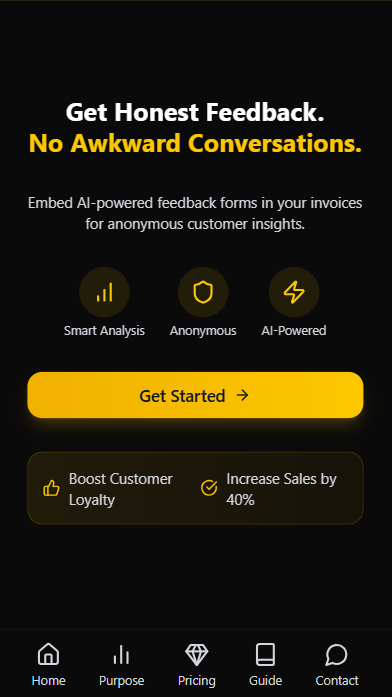
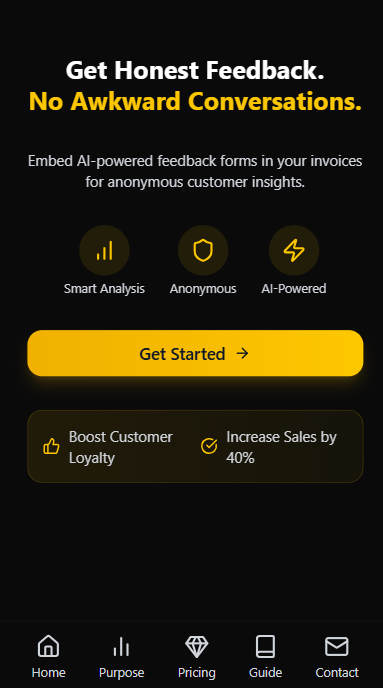
update image in readme

diff --git a/README.md b/README.md
@@ -1,6 +1,7 @@
 # InvisiFeed: The SaaS That Turns Invoices Into Growth Machines!
 
 **Live App:** [invisifeed.vercel.app](https://invisifeed.vercel.app)
+
 **Status:** ✅ Fully Functional | 🔐 Main Codebase is Private | 📄 This Repo is for Documentation Only
 
 ---
@@ -9,14 +10,13 @@
 
 **InvisiFeed** is a modern, full-stack SaaS platform built specifically for **freelancers, agencies, consultants, contractors, and service-based businesses** who want to:
 
-* Generate and send professional invoices
-* Collect honest, **anonymous** feedback from their clients
-* Analyze performance and improve service quality with the help of AI
-* Automate and simplify the invoice-to-feedback lifecycle
+- Generate and send professional invoices
+- Collect honest, **anonymous** feedback from their clients
+- Analyze performance and improve service quality with the help of AI
+- Automate and simplify the invoice-to-feedback lifecycle
 
 ![InvisiFeed](assets/landing-page.png)
 ![How-it-Works](assets/how-invisifeed-works.png)
-
 
 It transforms traditional invoices into **Smart Invoices** by embedding feedback forms and reward coupons directly inside downloadable PDF invoices.
 
@@ -26,8 +26,8 @@ It transforms traditional invoices into **Smart Invoices** by embedding feedback
 
 > ⚠ This repository is strictly for **documentation purposes only**.
 
-* The **actual project source code is hosted in a private repository** to protect the intellectual property and prevent unauthorized replication.
-* If you are an interested recruiter, potential collaborator, or reviewer, please contact the maintainer for access or demo requests.
+- The **actual project source code is hosted in a private repository** to protect the intellectual property and prevent unauthorized replication.
+- If you are an interested recruiter, potential collaborator, or reviewer, please contact the maintainer for access or demo requests.
 
 ![Codebase Preview](assets/repo-insights.png)
 
@@ -37,115 +37,123 @@ It transforms traditional invoices into **Smart Invoices** by embedding feedback
 
 ### 🔄 Smart Invoice System
 
-* Upload your own invoice PDF, or use the built-in invoice creator.
-* Optionally add a **discount coupon** to reward customers who provide feedback.
-* System generates a combined "Smart Invoice" PDF:
+- Upload your own invoice PDF, or use the built-in invoice creator.
+- Optionally add a **discount coupon** to reward customers who provide feedback.
+- System generates a combined "Smart Invoice" PDF:
 
-  * Original Invoice Page
-  * Feedback Page with:
+  - Original Invoice Page
+  - Feedback Page with:
 
-    * Link to feedback form
-    * QR Code for mobile access
-* Share directly with your client via the app.
+    - Link to feedback form
+    - QR Code for mobile access
+
+- Share directly with your client via the app.
 
 ### 🖋 Feedback Form
 
-* Includes:
+- Includes:
 
-  * Customer Satisfaction Rating
-  * Communication Rating
-  * Quality of Service Rating
-  * Value for Money Rating
-  * Recommendation Rating
-  * Overall Rating
-  * Feedback content (manual or AI-generated)
-  * Suggestions (manual or AI-generated)
-* Clients can:
+  - Customer Satisfaction Rating
+  - Communication Rating
+  - Quality of Service Rating
+  - Value for Money Rating
+  - Recommendation Rating
+  - Overall Rating
+  - Feedback content (manual or AI-generated)
+  - Suggestions (manual or AI-generated)
 
-  * Submit **anonymously** (no trace, no data saved)
-  * Submit **non-anonymously** without extra fields (auto-filled securely)
+- Clients can:
+
+  - Submit **anonymously** (no trace, no data saved)
+  - Submit **non-anonymously** without extra fields (auto-filled securely)
 
 ### 🧐 AI-Enhanced Feedback Insights
 
-* After submission, coupons are revealed.
-* AI engine (Gemini 2.0 Flash API) analyzes feedback and:
+- After submission, coupons are revealed.
+- AI engine (Gemini 2.0 Flash API) analyzes feedback and:
 
-  * Identifies Top 3 Areas of Improvement
-  * Identifies Top 3 Areas of Strength
+  - Identifies Top 3 Areas of Improvement
+  - Identifies Top 3 Areas of Strength
 
 ### 📊 Business Analytics Dashboard
 
-* Stats & Visualizations:
+- Stats & Visualizations:
 
-  * Total Sales (Stat Card)
-  * Total Feedback to Total Invoice Ratio (Pie Chart)
-  * Average Feedback Response Time
-  * Positive vs Negative Feedback (Pie Chart)
-  * Service Metrics: Average ratings for each of the 6 rating fields
-  * Sales Trend over Time (Bar Chart)
-  * Overall Rating Over Time (Line Chart)
-  * AI Highlights:
+  - Total Sales (Stat Card)
+  - Total Feedback to Total Invoice Ratio (Pie Chart)
+  - Average Feedback Response Time
+  - Positive vs Negative Feedback (Pie Chart)
+  - Service Metrics: Average ratings for each of the 6 rating fields
+  - Sales Trend over Time (Bar Chart)
+  - Overall Rating Over Time (Line Chart)
+  - AI Highlights:
 
-    * Best Performing Areas
-    * Worst Performing Areas
-* Feedback History Section
-* Reset All Data Option
+    - Best Performing Areas
+    - Worst Performing Areas
+
+- Feedback History Section
+- Reset All Data Option
 
 ### 📆 Invoice & Coupon Management
 
-* **Create Invoice Page:**
+- **Create Invoice Page:**
 
-  * Fill business details
-  * Add GSTIN if available
-  * Option to include feedback and coupons
-* **Upload Invoice Page:**
+  - Fill business details
+  - Add GSTIN if available
+  - Option to include feedback and coupons
 
-  * Upload any PDF
-  * Add optional coupon
-* **Coupon Management Page:**
+- **Upload Invoice Page:**
 
-  * View all coupons
-  * Search and filter
-  * Delete manually
-  * Expired coupons auto-deleted (via CRON)
+  - Upload any PDF
+  - Add optional coupon
+
+- **Coupon Management Page:**
+
+  - View all coupons
+  - Search and filter
+  - Delete manually
+  - Expired coupons auto-deleted (via CRON)
 
 ### 🎓 Sample Testing Mode
 
-* Test out features without uploading real data
-* Use pre-filled invoice samples for a simulated experience
+- Test out features without uploading real data
+- Use pre-filled invoice samples for a simulated experience
 
 ### 📅 Subscription & Pricing
 
-* **Free Plan:**
+- **Free Plan:**
 
-    * Unlimited feedback collection
-    * Basic analytics dashboard
-    * Standard feedback form
-    * Create upto 3 Invoices daily
-    * Feedback filters and sorting
-    * Email support
-* **Pro Plan:**
-    * Everything in Free plan
-    * Sales growth tracking
-    * Rating trend analysis
-    * Convert traditional invoices to smart invoices
-    * Generate upto 10 invoices daily
-    * Add coupons to invoices
-* **7-Day Trial:**
+  - Unlimited feedback collection
+  - Basic analytics dashboard
+  - Standard feedback form
+  - Create upto 3 Invoices daily
+  - Feedback filters and sorting
+  - Email support
 
-  * Available for Pro Plan
-  * CRON-Job automatically downgrades after expiry
-* **Payments:** Razorpay Domestic + International integration
+- **Pro Plan:**
+  - Everything in Free plan
+  - Sales growth tracking
+  - Rating trend analysis
+  - Convert traditional invoices to smart invoices
+  - Generate upto 10 invoices daily
+  - Add coupons to invoices
+- **7-Day Trial:**
+
+  - Available for Pro Plan
+  - CRON-Job automatically downgrades after expiry
+
+- **Payments:** Razorpay Domestic + International integration
 
 ### 🛠 Account Management
 
-* **Manage Profile** page:
+- **Manage Profile** page:
 
-  * Update user info
-  * Delete account permanently
-* Reset feature: Clears all uploaded invoice and feedback data
-* Temporary file storage: Cloudinary files auto-deleted
-* Forgot Password / Reset Password
+  - Update user info
+  - Delete account permanently
+
+- Reset feature: Clears all uploaded invoice and feedback data
+- Temporary file storage: Cloudinary files auto-deleted
+- Forgot Password / Reset Password
 
 ---
 
@@ -155,10 +163,10 @@ It transforms traditional invoices into **Smart Invoices** by embedding feedback
 
 **InvisiFeed Solves This:**
 
-* Combines invoicing + reward-based feedback
-* Maintains anonymity
-* Uses AI to make sense of feedback
-* Helps improve client satisfaction and service quality
+- Combines invoicing + reward-based feedback
+- Maintains anonymity
+- Uses AI to make sense of feedback
+- Helps improve client satisfaction and service quality
 
 > Backed by research. Built for real users. Designed to help you grow.
 
@@ -168,12 +176,12 @@ See our [Purpose Page](https://invisifeed.vercel.app/purpose) for survey data an
 
 ## 📅 Pages & Components
 
-* **Landing Page** — Modern, clean SaaS homepage with pricing & CTA
-* **Purpose Page** — Problem, solution, and research-backed reasoning
-* **Guide Page** — Beginner tutorial explaining all use-cases and steps
-* **FAQs** — Commonly asked questions and troubleshooting
-* **Review & Feedback Section** — Submit testimonials, issues, or ideas
-* **Privacy Policy / Terms of Service** — Full legal documentation
+- **Landing Page** — Modern, clean SaaS homepage with pricing & CTA
+- **Purpose Page** — Problem, solution, and research-backed reasoning
+- **Guide Page** — Beginner tutorial explaining all use-cases and steps
+- **FAQs** — Commonly asked questions and troubleshooting
+- **Review & Feedback Section** — Submit testimonials, issues, or ideas
+- **Privacy Policy / Terms of Service** — Full legal documentation
 
 ---
 
@@ -194,44 +202,44 @@ Built with a mobile-first approach to ensure top-tier usability, speed, and acce
 
 ### 🔹 Frontend
 
-* **Next.js (App Router)**
-* **JavaScript**
-* **TailwindCSS** + **Shadcn UI** + **Radix UI**
-* **Framer Motion** for animations
-* **Recharts** for analytics charts
-* **React-Hook-Form** for robust form management
+- **Next.js (App Router)**
+- **JavaScript**
+- **TailwindCSS** + **Shadcn UI** + **Radix UI**
+- **Framer Motion** for animations
+- **Recharts** for analytics charts
+- **React-Hook-Form** for robust form management
 
 ### 🔸 Backend / APIs
 
-* **NextAuth** for authentication
-* **Cloudinary** for file storage
-* **pdf-lib** + **react-pdf** for invoice + feedback PDF generation
-* **QRCode** for smart form linking
-* **Zod** for validation
-* **JWT, Bcrypt** for secure auth
-* **Nodemailer** for transactional emails
-* **Mongoose** for MongoDB
-* **Gemini 2.0 Flash API** for AI feedback analysis
-* **Razorpay** for domestic/international payments
-* **ClearTax GSTIN API** for business validation
-* **CRON Jobs** for auto-downgrade, cleanup
+- **NextAuth** for authentication
+- **Cloudinary** for file storage
+- **pdf-lib** + **react-pdf** for invoice + feedback PDF generation
+- **QRCode** for smart form linking
+- **Zod** for validation
+- **JWT, Bcrypt** for secure auth
+- **Nodemailer** for transactional emails
+- **Mongoose** for MongoDB
+- **Gemini 2.0 Flash API** for AI feedback analysis
+- **Razorpay** for domestic/international payments
+- **ClearTax GSTIN API** for business validation
+- **CRON Jobs** for auto-downgrade, cleanup
 
 ### 🔹 Database
 
-* **MongoDB Atlas** (Cloud-based NoSQL)
+- **MongoDB Atlas** (Cloud-based NoSQL)
 
 ---
 
 ## 📊 Project Metrics
 
-* ✔ **Fully Functional SaaS Platform**
-* 📊 **35+ Backend APIs**
-* 🎨 **50+ Frontend Components**
-* ⚙ **20+ Utility Functions**
-* 📅 **5 Database Models**
-* 🚀 **800+ Commits**
-* ⏰ **Built in 50 Days**
-* 👥 **Team: 2 Developers**
+- ✔ **Fully Functional SaaS Platform**
+- 📊 **35+ Backend APIs**
+- 🎨 **50+ Frontend Components**
+- ⚙ **20+ Utility Functions**
+- 📅 **5 Database Models**
+- 🚀 **800+ Commits**
+- ⏰ **Built in 50 Days**
+- 👥 **Team: 2 Developers**
 
 ---
 
@@ -242,14 +250,16 @@ Want a demo, walkthrough, or request access to the private repo?
 **Connect with:**
 
 #### **Shubh Verma**
-* Email: [shubhverma2003@gmail.com](mailto:shubhverma2003@gmail.com)
-* Twitter: [@ShubhOnX](https://x.com/ShubhOnX)
-* LinkedIn: [@shubh-v21](https://linkedin.com/in/shubh-v21)
+
+- Email: [shubhverma2003@gmail.com](mailto:shubhverma2003@gmail.com)
+- Twitter: [@ShubhOnX](https://x.com/ShubhOnX)
+- LinkedIn: [@shubh-v21](https://linkedin.com/in/shubh-v21)
 
 #### **Sneha Sharma**
-* Email: [snehav2109@gmail.com](mailto:snehav2109@gmail.com)
-* Twitter: [@SnehaDevs](https://x.com/SnehaDevs)
-* LinkedIn: [@ss0807](https://linkedin.com/in/ss0807)
+
+- Email: [snehav2109@gmail.com](mailto:snehav2109@gmail.com)
+- Twitter: [@SnehaDevs](https://x.com/SnehaDevs)
+- LinkedIn: [@ss0807](https://linkedin.com/in/ss0807)
 
 ---
 
